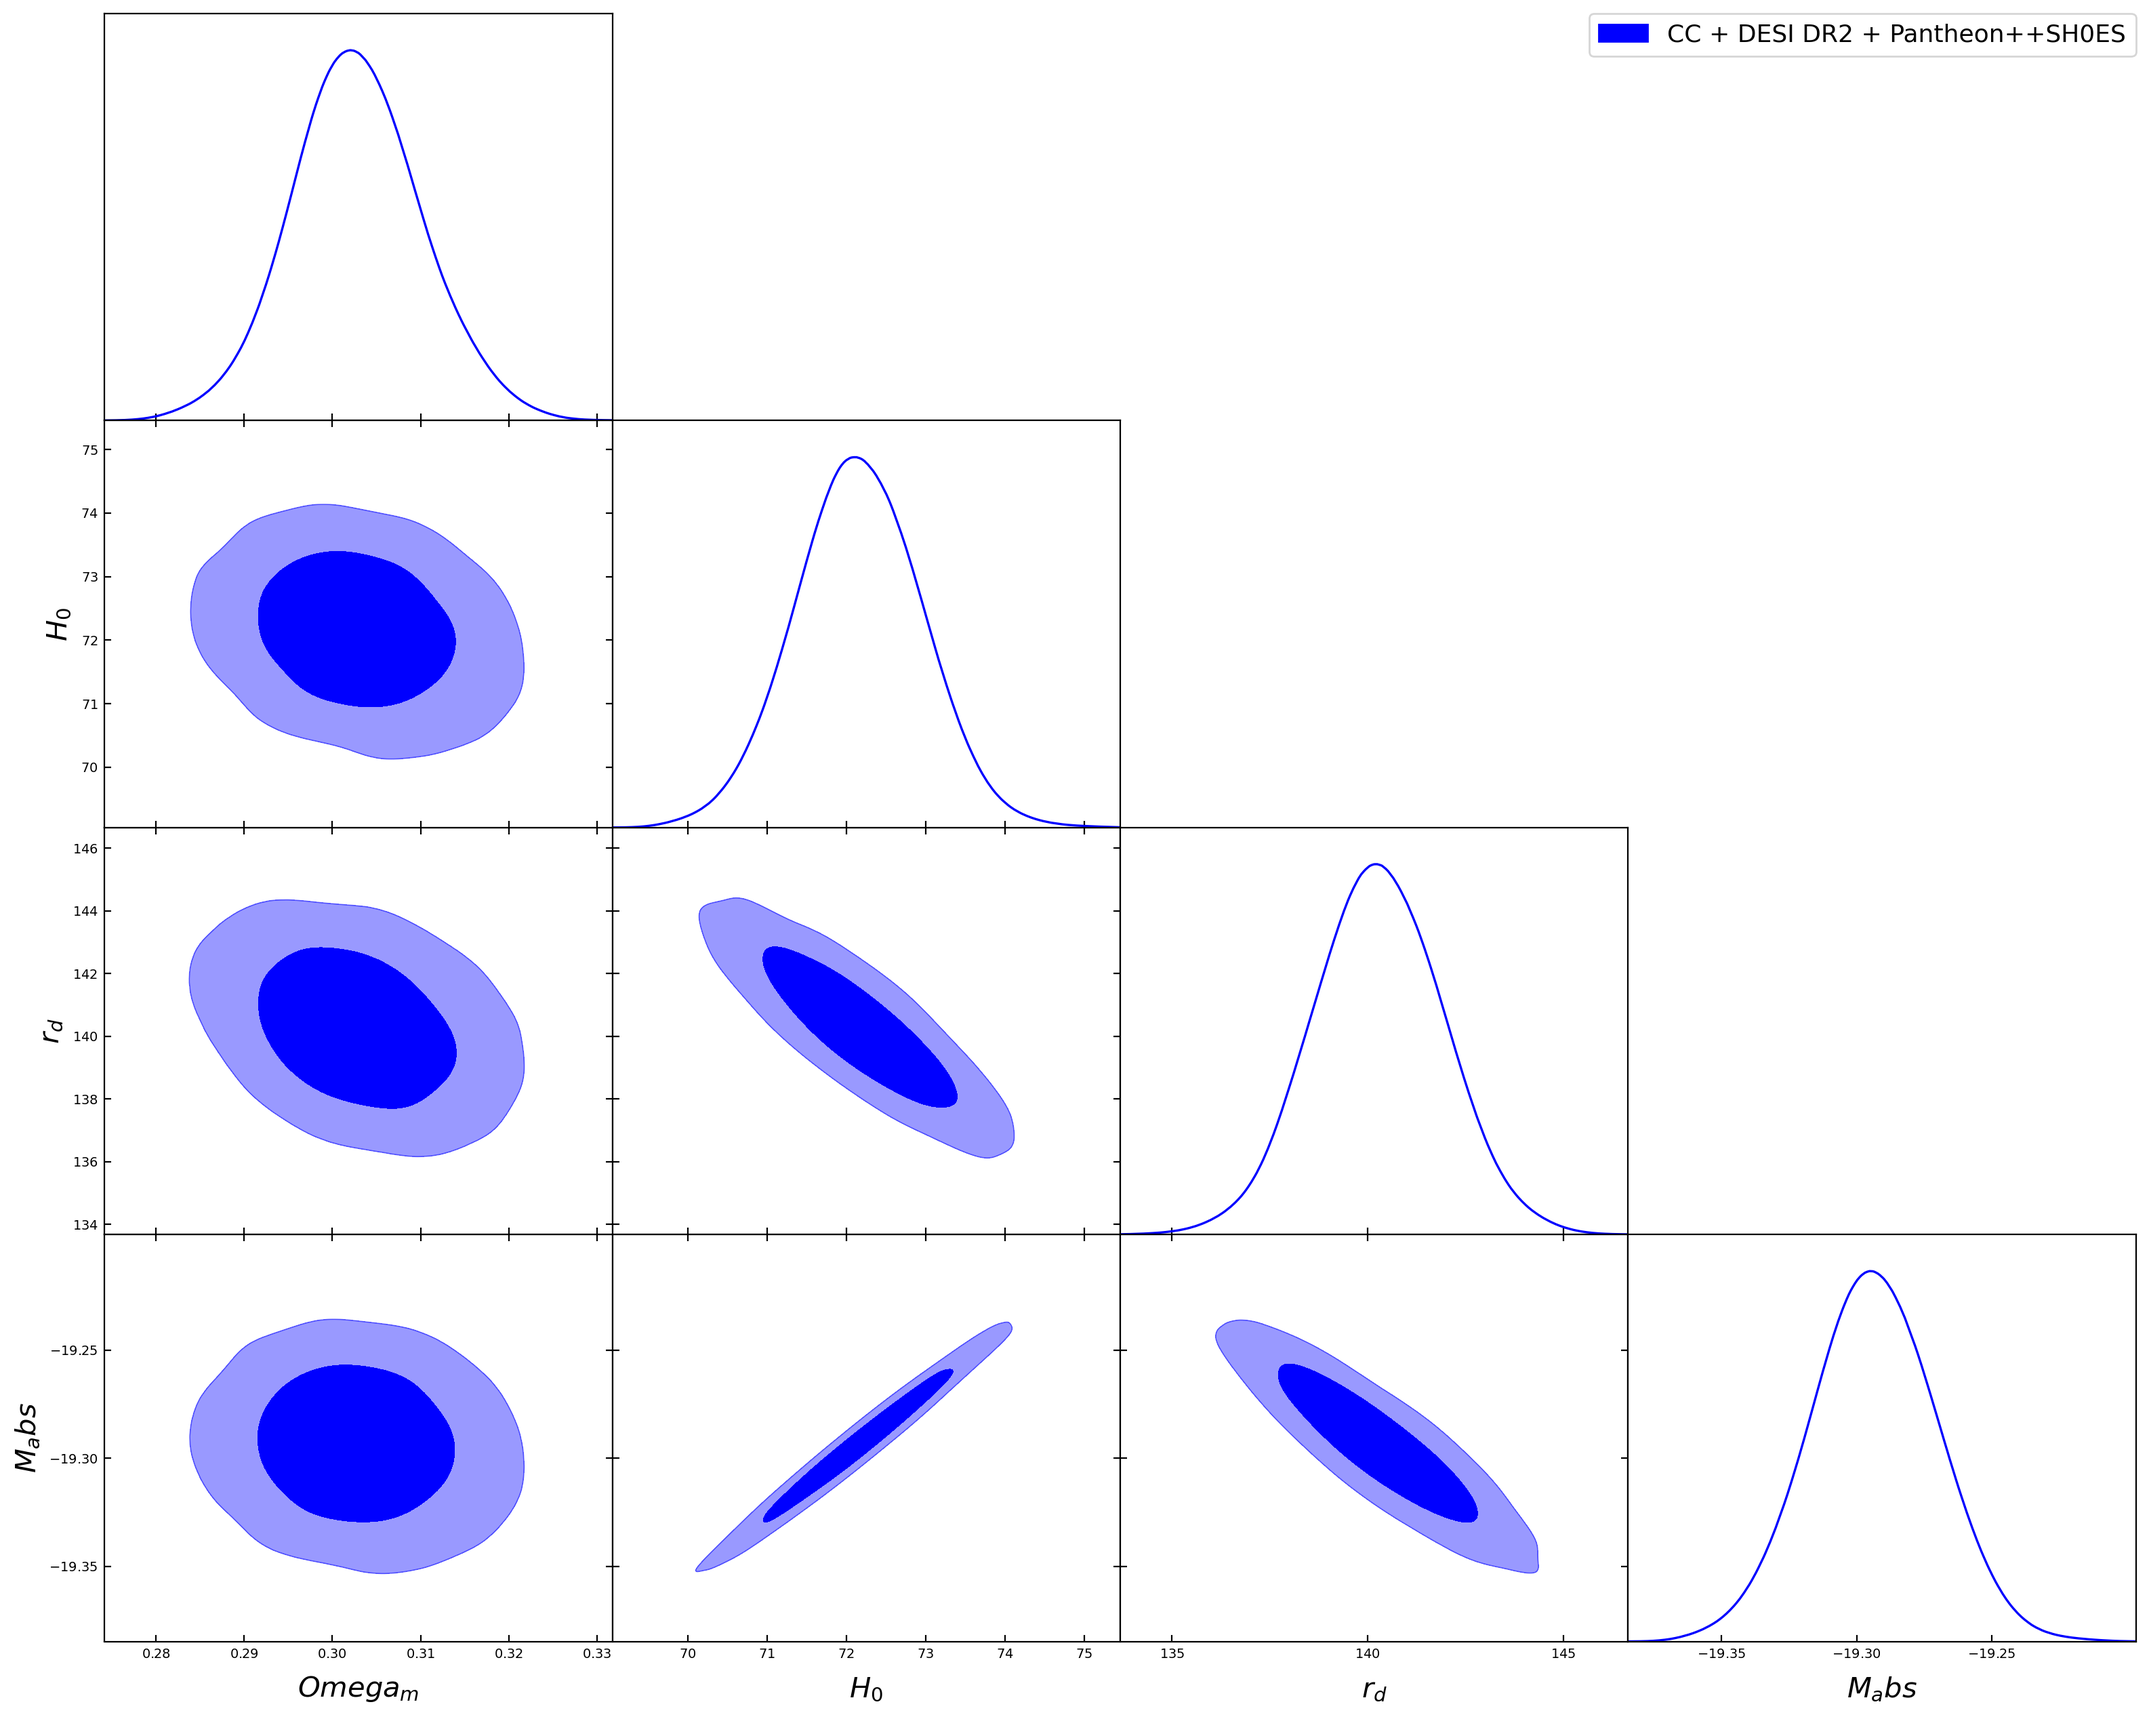
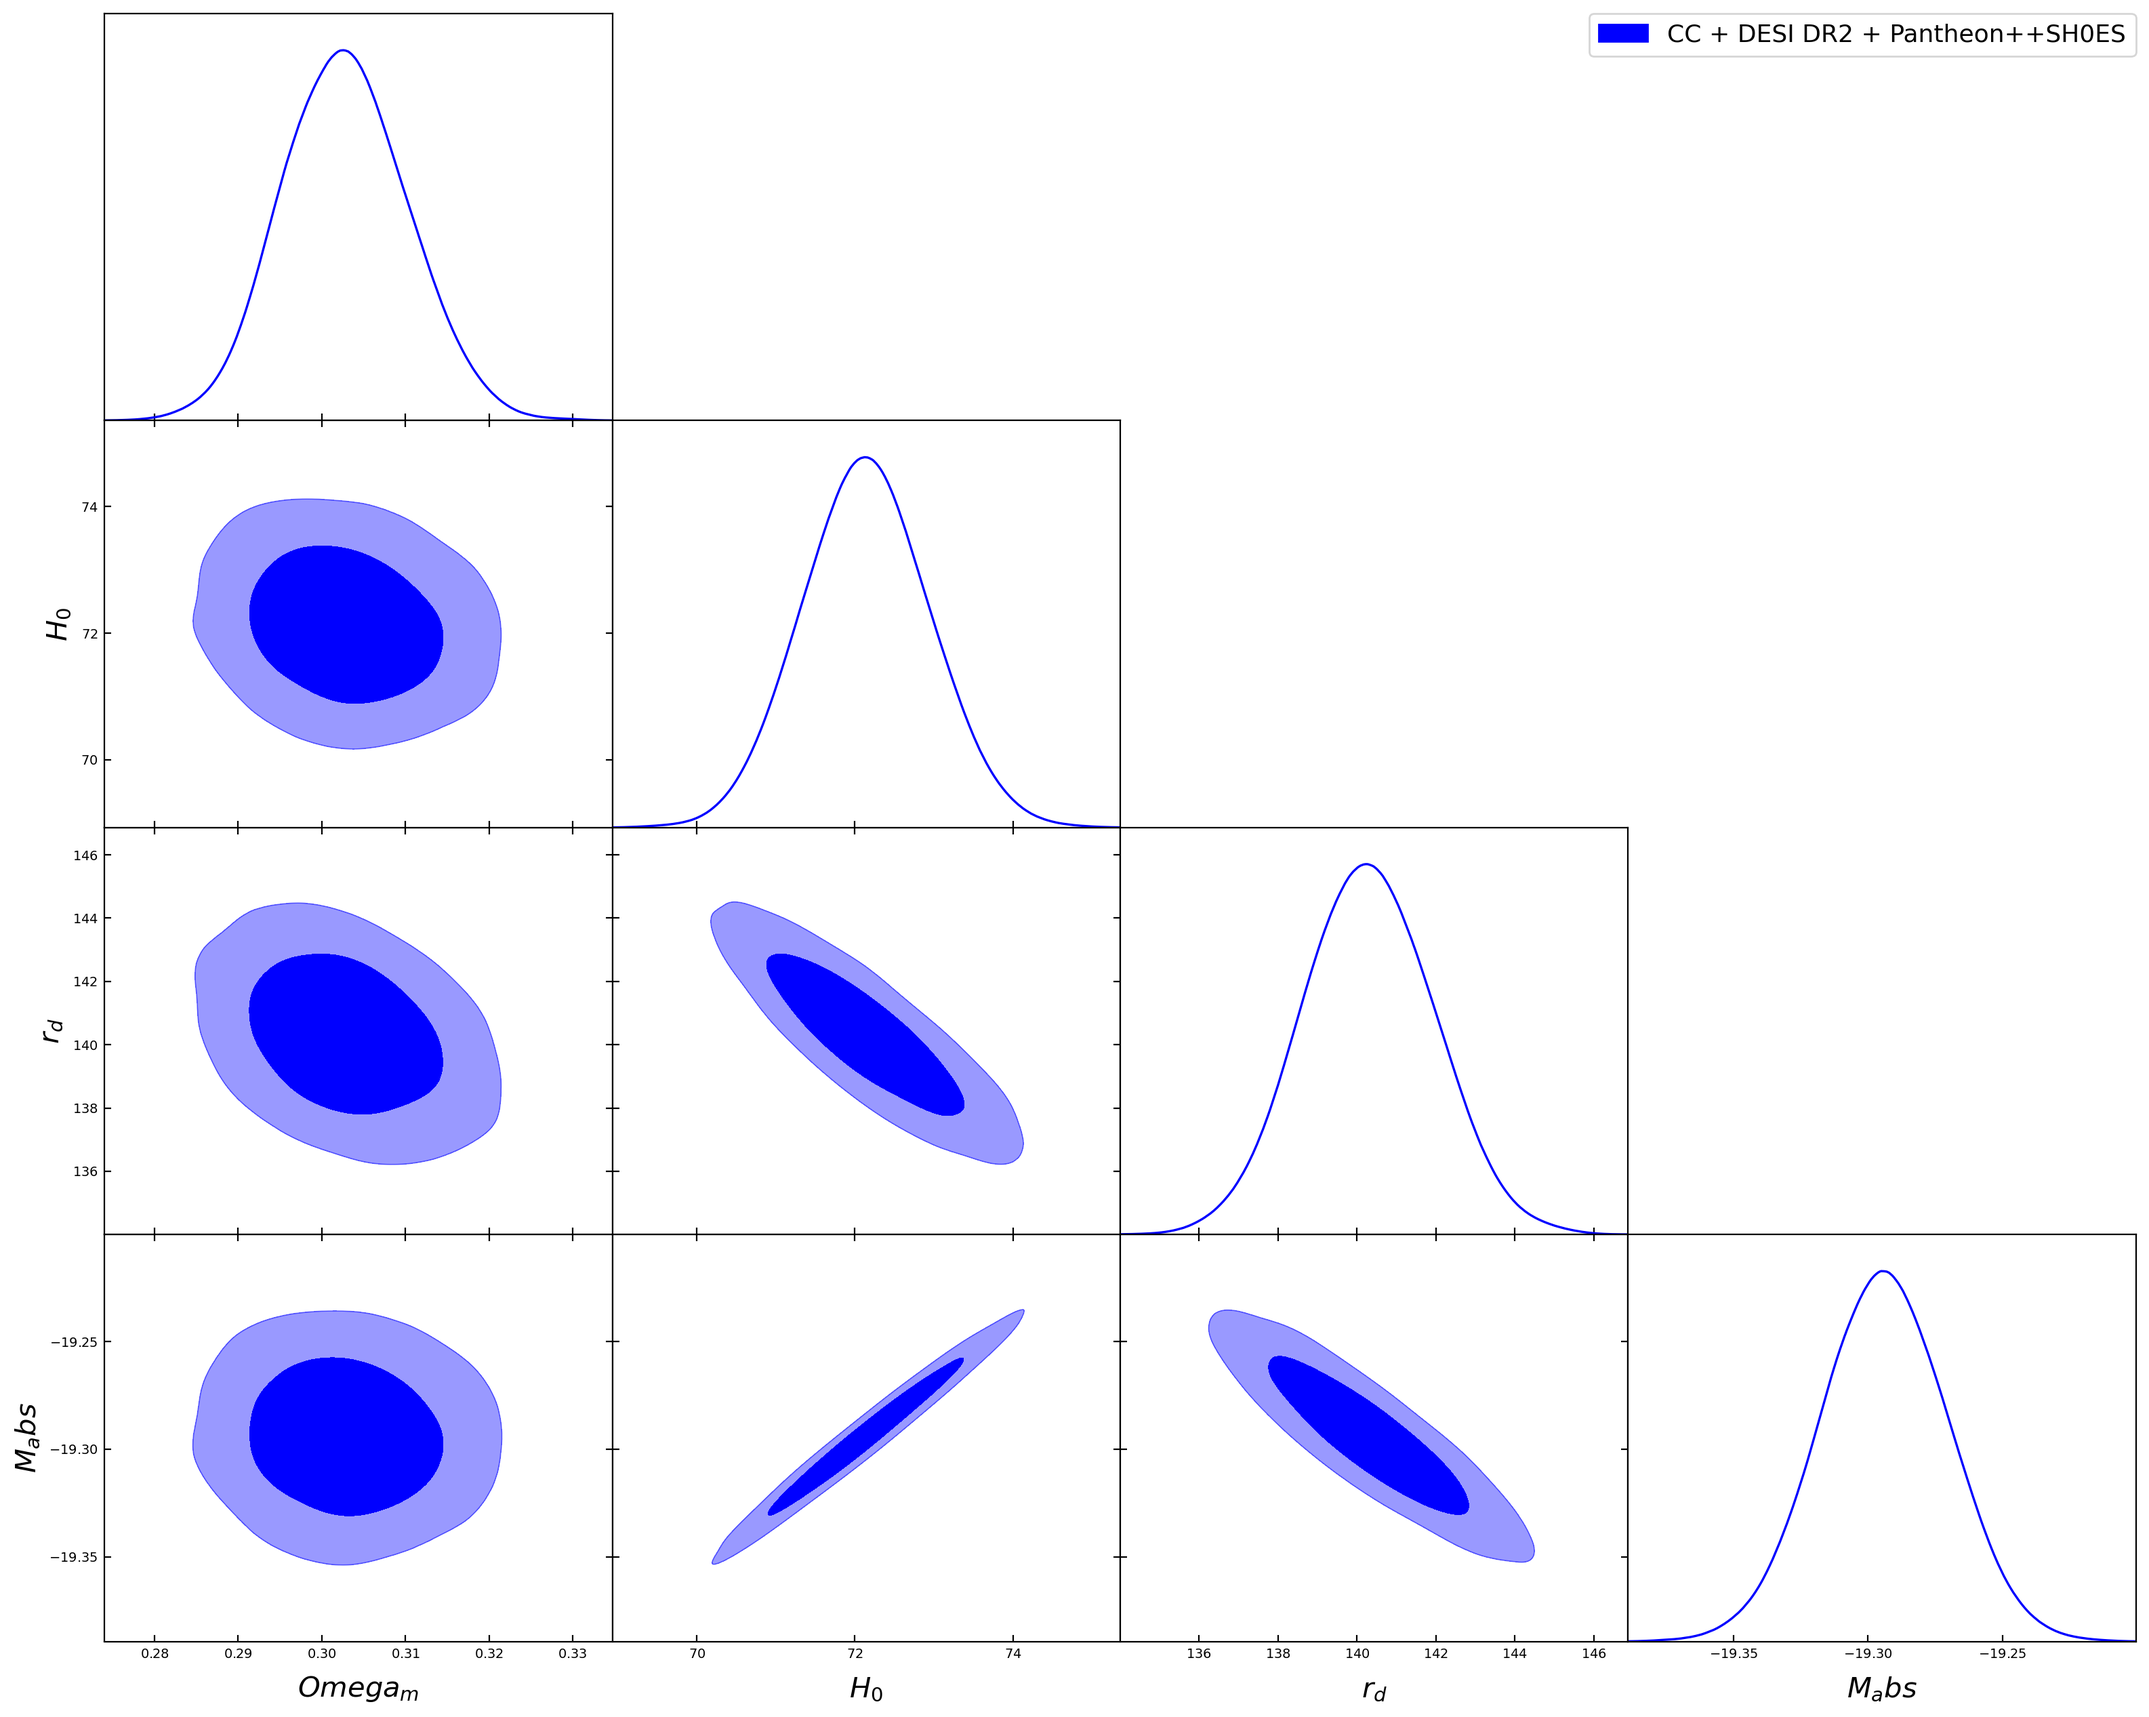
Successful implementation of AICc

diff --git a/Kosmulator_main/Post_processing.py b/Kosmulator_main/Post_processing.py
@@ -292,6 +292,10 @@ def statistical_analysis(best_fit_values, data, CONFIG, true_model):
     reference_aic: dict[str, float] = {}
     reference_bic: dict[str, float] = {}
 
+    #Adding reference for aicc
+    reference_aicc: dict[str, float] = {}
+    
+
     for model_name, obs_results in best_fit_values.items():
         results[model_name] = {}
         for obs_name, params in obs_results.items():
@@ -579,10 +583,19 @@ def statistical_analysis(best_fit_values, data, CONFIG, true_model):
                     "Degrees of freedom (DOF) is zero or negative. "
                     "Check your model or dataset."
                 )
-
+            """
+            In order to implement AICc, I need the size of the sample space being worked with.
+            """
             reduced_chi_squared = chi_squared_total / dof
             aic = 2 * num_params - 2 * log_likelihood
             bic = num_params * np.log(num_data_points_total) - 2 * log_likelihood
+            #In the calculation of AICc, the assumption is made that num_data_points_total can be used as sample space value, n
+            if (num_data_points_total - num_params - 1) > 0:
+                aicc = 2*num_params - 2*log_likelihood + (2*num_params * (num_params + 1))/(num_data_points_total - num_params - 1)
+            else:
+                aicc = aic
+
+           
 
             results[model_name][obs_name] = {
                 "Log-Likelihood": log_likelihood,
@@ -590,6 +603,7 @@ def statistical_analysis(best_fit_values, data, CONFIG, true_model):
                 "Reduced_Chi_squared": reduced_chi_squared,
                 "AIC": aic,
                 "BIC": bic,
+                "AICc" : aicc,
             }
             if notes:
                 results[model_name][obs_name]["Note"] = " | ".join(notes)
@@ -597,12 +611,14 @@ def statistical_analysis(best_fit_values, data, CONFIG, true_model):
             if model_name == true_model:
                 reference_aic[obs_name] = aic
                 reference_bic[obs_name] = bic
+                reference_aicc[obs_name] = aicc
 
     # Calculate delta AIC and delta BIC relative to the true model.
     for model_name, obs_results in results.items():
         for obs_name, stats in obs_results.items():
             stats["dAIC"] = stats["AIC"] - reference_aic.get(obs_name, stats["AIC"])
             stats["dBIC"] = stats["BIC"] - reference_bic.get(obs_name, stats["BIC"])
+            stats["dAICc"] = stats["AICc"] - reference_aicc.get(obs_name, stats["AICc"])
 
     return results
 
@@ -682,14 +698,18 @@ def provide_model_diagnostics(
 
     return feedback
 
-
-def interpret_delta_aic_bic(delta_aic, delta_bic) -> str:
+def interpret_delta_IC(
+        delta_aic, 
+        delta_bic,
+        delta_aicc
+        ) -> str:
     """
     Turn ΔAIC / ΔBIC into human-readable model-comparison statements.
     """
     # Coerce to plain floats (works for Python floats, NumPy scalars, 0-d arrays)
     delta_aic = float(np.asarray(delta_aic).reshape(()))
     delta_bic = float(np.asarray(delta_bic).reshape(()))
+    delta_aicc = float(np.asarray(delta_aicc).reshape(()))
 
     feedback = []
 
@@ -723,6 +743,24 @@ def interpret_delta_aic_bic(delta_aic, delta_bic) -> str:
     else:
         feedback.append(
             f"Delta BIC: Strong evidence against the model (ΔBIC = {delta_bic:.2f})."
+        )
+
+    #AICc implementation:
+    if delta_aicc < 2:
+        feedback.append(
+            f"Delta AICc: Indistinguishable (ΔAIC = {delta_aicc:.2f})."
+        )
+    elif delta_aicc < 4:
+        feedback.append(
+            f"Delta AICc: Slight evidence against the model (ΔAIC = {delta_aicc:.2f})."
+        )
+    elif delta_aicc < 7:
+        feedback.append(
+            f"Delta AICc: Positive evidence against the model (ΔAIC = {delta_aicc:.2f})."
+        )
+    else:
+        feedback.append(
+            f"Delta AICc: Strong evidence against the model (ΔAIC = {delta_aicc:.2f})."
         )
 
     return "\n".join(feedback)

diff --git a/Kosmulator_main/utils.py b/Kosmulator_main/utils.py
@@ -1488,7 +1488,7 @@ def save_stats_to_file(model: str, folder: str, stats_list: List[Dict[str, float
     header = (
         f"{'Observation':<{obs_w}} | {'Log-Likelihood':>18} | "
         f"{'Chi-Squared':>15} | {'Reduced Chi-Squared':>20} | "
-        f"{'AIC':>11} | {'BIC':>11} | {'dAIC':>11} | {'dBIC':>11}"
+        f"{'AIC':>11} | {'BIC':>11} | {'dAIC':>11} | {'dBIC':>11} | {'AICc':>11} | {'dAICc':>11}"
     )
 
     import numpy as _np
@@ -1522,12 +1522,14 @@ def save_stats_to_file(model: str, folder: str, stats_list: List[Dict[str, float
             rchi = _as_float(s.get("Reduced_Chi_squared", _np.nan))
             aic = _as_float(s.get("AIC", _np.nan))
             bic = _as_float(s.get("BIC", _np.nan))
+            aicc = _as_float(s.get("AICc",_np.nan))
             daic = _as_float(s.get("dAIC", _np.nan))
             dbic = _as_float(s.get("dBIC", _np.nan))
+            daicc = _as_float(s.get("dAICc",_np.nan))
             row = (
                 f"{obs:<{obs_w}} | {ll:>18.4f} | {chi2:>15.4f} | "
-                f"{rchi:>20.4f} | {aic:>11.3f} | {bic:>11.3f} | "
-                f"{daic:>11.3f} | {dbic:>11.3f}"
+                f"{rchi:>20.4f} | {aic:>11.3f} | {bic:>11.3f} | {daic:>11.3f} |"
+                f"{dbic:>11.3f} | {aicc:>11.3f} | {daicc:11.3f}"
             )
             f.write(row + "\n")
         f.write("\n")
@@ -1539,7 +1541,7 @@ def save_interpretations_to_file(
     interpretations_list: List[Dict[str, str]],
 ) -> None:
     file_path = os.path.join(folder, "interpretations_summary.txt")
-    obs_w, diag_w, aic_w, bic_w = 30, 50, 35, 35
+    obs_w, diag_w, aic_w, bic_w, aicc_w = 30, 50, 35, 35, 35
 
     with open(file_path, "w") as f:
         f.write(f"Interpretations for Model: {model}\n\n")
@@ -1547,10 +1549,11 @@ def save_interpretations_to_file(
             f"{'Observation':<{obs_w}} | "
             f"{'Reduced Chi2 Diagnostics':<{diag_w}} | "
             f"{'AIC Interpretation':<{aic_w}} | "
-            f"{'BIC Interpretation':<{bic_w}}"
+            f"{'BIC Interpretation':<{bic_w}} |" 
+            f"{'AICc Interpretation':<{aicc_w}} |"
         )
         f.write(header + "\n")
-        total = obs_w + diag_w + aic_w + bic_w + 9
+        total = obs_w + diag_w + aic_w + bic_w + aicc_w + 9
         f.write("-" * total + "\n")
 
         for it in interpretations_list:
@@ -1558,19 +1561,22 @@ def save_interpretations_to_file(
             diag = it["Reduced Chi2 Diagnostics"]
             aic_i = it["AIC Interpretation"]
             bic_i = it["BIC Interpretation"]
+            aicc_i = it["AICc Interpretation"]
 
             diag_lines = textwrap.wrap(diag, width=diag_w)
             aic_lines = textwrap.wrap(aic_i, width=aic_w)
             bic_lines = textwrap.wrap(bic_i, width=bic_w)
+            aicc_lines = textwrap.wrap(aicc_i, width = aicc_w)
             obs_line = obs.ljust(obs_w)
-            max_lines = max(1, len(diag_lines), len(aic_lines), len(bic_lines))
+            max_lines = max(1, len(diag_lines), len(aic_lines), len(bic_lines), len(aicc_lines))
 
             for i in range(max_lines):
                 line = (
                     f"{(obs_line if i == 0 else ' ' * obs_w):<{obs_w}} | "
                     f"{(diag_lines[i] if i < len(diag_lines) else ''):<{diag_w}} | "
                     f"{(aic_lines[i] if i < len(aic_lines) else ''):<{aic_w}} | "
-                    f"{(bic_lines[i] if i < len(bic_lines) else ''):<{bic_w}}"
+                    f"{(bic_lines[i] if i < len(bic_lines) else ''):<{bic_w}} |"
+                    f"{(aicc_lines[i] if i < len(aicc_lines) else ''):<{aicc_w}} |"
                 )
                 f.write(line + "\n")
 

diff --git a/Plots/Plots.py b/Plots/Plots.py
@@ -521,9 +521,13 @@ def generate_plots(All_Samples, CONFIG, PLOT_SETTINGS, data, true_model):
                 model_name=model,
                 reference_chi_squared=reference_chi2,
             )
-            aic_bic_lines = PP.interpret_delta_aic_bic(stats["dAIC"], stats["dBIC"]).splitlines()
-            aic_text = aic_bic_lines[0].strip() if len(aic_bic_lines) > 0 else "No AIC interpretation available."
-            bic_text = aic_bic_lines[1].strip() if len(aic_bic_lines) > 1 else "No BIC interpretation available."
+            #Proposed version with AICc inclusion:
+            IC_lines = PP.interpret_delta_IC(stats['dAIC'], stats['dBIC'], stats['dAICc']).splitlines()
+            aic_text = IC_lines[0].strip() if len(IC_lines) > 0 else "No AIC interpretation available."
+            bic_text = IC_lines[1].strip() if len(IC_lines) > 1 else "No BIC interpretation available."
+
+            #AICc text
+            aicc_text = IC_lines[2].strip() if len(IC_lines) > 2 else "No AICc interpretation"
 
             # Resolve the raw obs list for this obs_key  (FIX: use CONFIG[model], not CONFIG[model_name])
             obs_list, obs_idx = None, None
@@ -546,7 +550,9 @@ def generate_plots(All_Samples, CONFIG, PLOT_SETTINGS, data, true_model):
                 "AIC": stats["AIC"],
                 "BIC": stats["BIC"],
                 "dAIC": stats["dAIC"],
-                "dBIC": stats["dBIC"],
+                'dBIC':stats['dBIC'],
+                "AICc": stats["AICc"],
+                "dAICc": stats["dAICc"],
             }
 
             # IMPORTANT: Do NOT include S in the stats row — it will be printed as a stand-alone line
@@ -557,6 +563,7 @@ def generate_plots(All_Samples, CONFIG, PLOT_SETTINGS, data, true_model):
                 "Reduced Chi2 Diagnostics": diagnostics.strip(),
                 "AIC Interpretation": aic_text,
                 "BIC Interpretation": bic_text,
+                "AICc Interpretation": aicc_text,
             })
 
         # Persist to disk

diff --git a/Kosmulator_main/Class_run.py b/Kosmulator_main/Class_run.py
@@ -35,7 +35,7 @@ try:
 except ImportError:
     clik = None
 
-import sysconfig
+import sysconfig 
 
 from Kosmulator_main import utils as U
 
